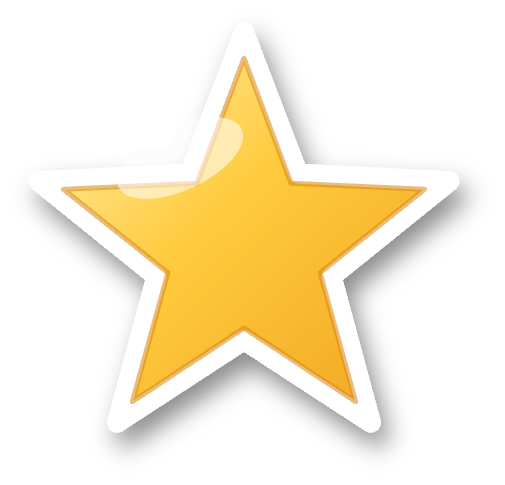
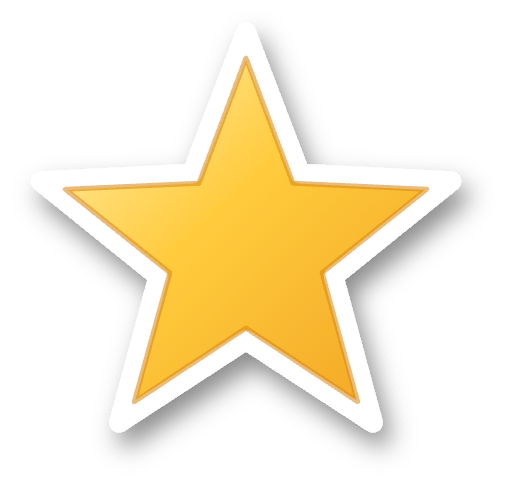
Add Bandeiras e Detalhes no Hover da Galeria

diff --git a/style.css b/style.css
@@ -96,29 +96,29 @@ header {
 }
 
 .filtros-secao {
-    display: flex;
+    display: grid;
+    grid-template-columns: 1fr auto 1fr;
     align-items: center;
-    justify-content: center;
-    gap: 34px;
-    flex-wrap: wrap;
+    gap: 20px;
     padding: 10px 20px 0;
 }
 
 .filtros-bloco {
-    flex: 1 1 auto;
+    grid-column: 2;
     max-width: 900px;
 }
 
 .filtros-toggles {
+    grid-column: 3;
     display: flex;
+    justify-self: start;
     gap: 18px;
-    flex-shrink: 0;
 }
 
 .filtro-toggle {
     position: relative;
-    width: 72px;
-    height: 72px;
+    width: 54px;
+    height: 54px;
     border: none;
     background: none;
     cursor: pointer;
@@ -150,13 +150,19 @@ header {
 
 @media (max-width: 800px) {
     .filtros-secao {
-        flex-direction: column;
-        gap: 20px;
+        grid-template-columns: 1fr;
+        justify-items: center;
+        gap: 16px;
+    }
+
+    .filtros-bloco,
+    .filtros-toggles {
+        grid-column: 1;
     }
 
     .filtro-toggle {
-        width: 60px;
-        height: 60px;
+        width: 48px;
+        height: 48px;
     }
 }
 
@@ -324,12 +330,9 @@ header {
     padding: 12px 12px 34px;
     box-shadow: 0 6px 14px rgba(0, 0, 0, 0.25);
     cursor: pointer;
+    transform: rotate(var(--rot, 0deg)) translateY(var(--desloc, 0px));
     transition: transform 0.2s ease, box-shadow 0.2s ease;
 }
-
-.polaroid:nth-child(3n+1) { transform: rotate(-2.5deg); }
-.polaroid:nth-child(3n+2) { transform: rotate(1.5deg); }
-.polaroid:nth-child(3n) { transform: rotate(-1deg); }
 
 .polaroid:hover {
     transform: rotate(0deg) scale(1.06);
@@ -358,6 +361,29 @@ header {
     filter: none;
     background-color: transparent;
     pointer-events: none;
+}
+
+.bandeira-foto {
+    position: absolute;
+    top: 8px;
+    left: 8px;
+    z-index: 2;
+    width: 30px;
+    height: 30px;
+    display: flex;
+    align-items: center;
+    justify-content: center;
+    font-size: 1.05rem;
+    line-height: 1;
+    background-color: #fff;
+    border-radius: 50%;
+    box-shadow: 0 1px 4px rgba(0, 0, 0, 0.4);
+    pointer-events: none;
+}
+
+.polaroid .bandeira-foto {
+    top: 20px;
+    left: 20px;
 }
 
 @media (max-width: 800px) {
@@ -607,10 +633,22 @@ header {
     width: 32px;
     height: auto;
     object-fit: contain;
+    background-color: transparent;
     border: none;
     border-radius: 0;
     cursor: default;
     pointer-events: none;
+}
+
+.galeria-item .estrela-favorita,
+.galeria-item .bandeira-foto {
+    opacity: 0;
+    transition: opacity 0.2s ease;
+}
+
+.galeria-item:hover .estrela-favorita,
+.galeria-item:hover .bandeira-foto {
+    opacity: 1;
 }
 
 .rodape{

diff --git a/script.js b/script.js
@@ -21,19 +21,42 @@ const toggleFavoritas = document.getElementById('toggle-favoritas');
 
 const imagensOrdemOriginal = fotosOrdemOriginal.map(item => item.querySelector('img'));
 
-// function criarEstrela() {
-//     const estrela = document.createElement('img');
-//     estrela.className = 'estrela-favorita';
-//     estrela.src = './img_Icones/estrela-favorita.png';
-//     estrela.alt = 'Favorite';
-//     return estrela;
-// }
+const BANDEIRAS = {
+    egito: '🇪🇬',
+    malta: '🇲🇹',
+    atenas: '🇬🇷',
+    barcelona: '🇪🇸',
+    madrid: '🇪🇸',
+    porto: '🇵🇹',
+    sangiovanni: '🇮🇹',
+};
 
-// imagens.forEach(img => {
-//     if (img.dataset.favorita === 'true') {
-//         img.insertAdjacentElement('afterend', criarEstrela());
-//     }
-// });
+function criarEstrela() {
+    const estrela = document.createElement('img');
+    estrela.className = 'estrela-favorita';
+    estrela.src = './img_Icones/estrela-favorita.png';
+    estrela.alt = 'Favorite';
+    return estrela;
+}
+
+function criarBandeira(categoria) {
+    const emoji = BANDEIRAS[categoria];
+    if (!emoji) return null;
+    const bandeira = document.createElement('span');
+    bandeira.className = 'bandeira-foto';
+    bandeira.textContent = emoji;
+    bandeira.setAttribute('aria-hidden', 'true');
+    return bandeira;
+}
+
+imagens.forEach(img => {
+    const wrapper = img.parentElement;
+    const bandeira = criarBandeira(img.dataset.categoria);
+    if (bandeira) wrapper.appendChild(bandeira);
+    if (img.dataset.favorita === 'true') {
+        wrapper.appendChild(criarEstrela());
+    }
+});
 
 let filtroLocalAtivo = 'todos';
 let filtroEstiloAtivo = 'todos';
@@ -101,6 +124,9 @@ pinsMapa.forEach(pin => {
         }
     });
 });
+
+const mapaScroll = document.querySelector('.mapa');
+mapaScroll.scrollLeft = (mapaScroll.scrollWidth - mapaScroll.clientWidth) / 2;
 
 const lightbox = document.getElementById('lightbox');
 const lightboxConteudo = document.querySelector('.lightbox-conteudo');
@@ -287,15 +313,20 @@ lightbox.addEventListener('touchcancel', () => { toqueEmAndamento = false; }, { 
 function criarPolaroid(img, lista) {
     const polaroid = document.createElement('figure');
     polaroid.className = 'polaroid';
+    polaroid.style.setProperty('--rot', `${(Math.random() * 12 - 6).toFixed(2)}deg`);
+    polaroid.style.setProperty('--desloc', `${Math.round(Math.random() * 20 - 6)}px`);
 
     const imgClone = document.createElement('img');
     imgClone.src = img.src;
     imgClone.alt = img.alt;
     polaroid.appendChild(imgClone);
 
-    // if (img.dataset.favorita === 'true') {
-    //     polaroid.appendChild(criarEstrela());
-    // }
+    const bandeira = criarBandeira(img.dataset.categoria);
+    if (bandeira) polaroid.appendChild(bandeira);
+
+    if (img.dataset.favorita === 'true') {
+        polaroid.appendChild(criarEstrela());
+    }
 
     polaroid.addEventListener('click', () => abrirLightbox(img, lista));
     return polaroid;

diff --git a/index.html b/index.html
@@ -489,14 +489,14 @@
                 <p class="filtros-legenda">Where</p>
                 <nav class="filtros">
                     <button class="filtro-btn ativo" data-filtro="todos">All</button>
-                    <!-- <button class="filtro-btn" data-filtro="roma">Rome</button> -->
-                    <button class="filtro-btn" data-filtro="egito">Egypt</button>
-                    <button class="filtro-btn" data-filtro="malta">Malta</button>
-                    <button class="filtro-btn" data-filtro="atenas">Athens</button>
-                    <button class="filtro-btn" data-filtro="barcelona">Barcelona</button>
-                    <button class="filtro-btn" data-filtro="madrid">Madrid</button>
-                    <button class="filtro-btn" data-filtro="porto">Porto</button>
-                    <button class="filtro-btn" data-filtro="sangiovanni">San Giovanni Rotondo</button>
+                    <!-- <button class="filtro-btn" data-filtro="roma">🇮🇹 Rome</button> -->
+                    <button class="filtro-btn" data-filtro="egito">🇪🇬 Egypt</button>
+                    <button class="filtro-btn" data-filtro="malta">🇲🇹 Malta</button>
+                    <button class="filtro-btn" data-filtro="atenas">🇬🇷 Athens</button>
+                    <button class="filtro-btn" data-filtro="barcelona">🇪🇸 Barcelona</button>
+                    <button class="filtro-btn" data-filtro="madrid">🇪🇸 Madrid</button>
+                    <button class="filtro-btn" data-filtro="porto">🇵🇹 Porto</button>
+                    <button class="filtro-btn" data-filtro="sangiovanni">🇮🇹 San Giovanni Rotondo</button>
                     <!-- <button class="filtro-btn" data-filtro="outros">Other</button> -->
                 </nav>
 
@@ -520,7 +520,7 @@
         <section class="galeria_completa">
             <div class="galeria">
                 <div class="galeria-item">
-                    <img src="./Img_Photos/DSC01868.jpg" alt="Água-viva no aquário" data-categoria="malta" data-estilo="animais colorido"
+                    <img src="./Img_Photos/DSC01868.jpg" alt="Água-viva no aquário" data-favorita="true" data-categoria="malta" data-estilo="animais colorido"
                         data-data="" data-camera="Sony-A7IV" data-lente="" data-iso="" data-foco="" data-obturador="">
                 </div>
                 <div class="galeria-item">